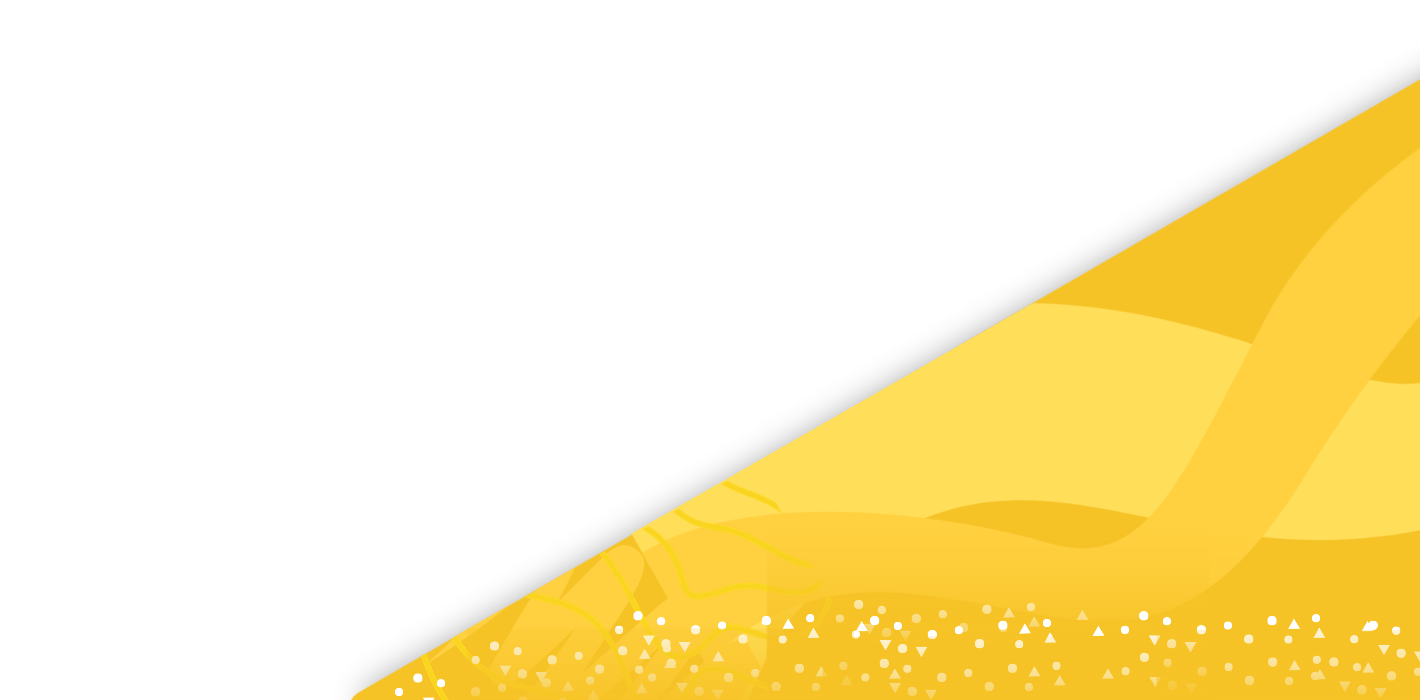
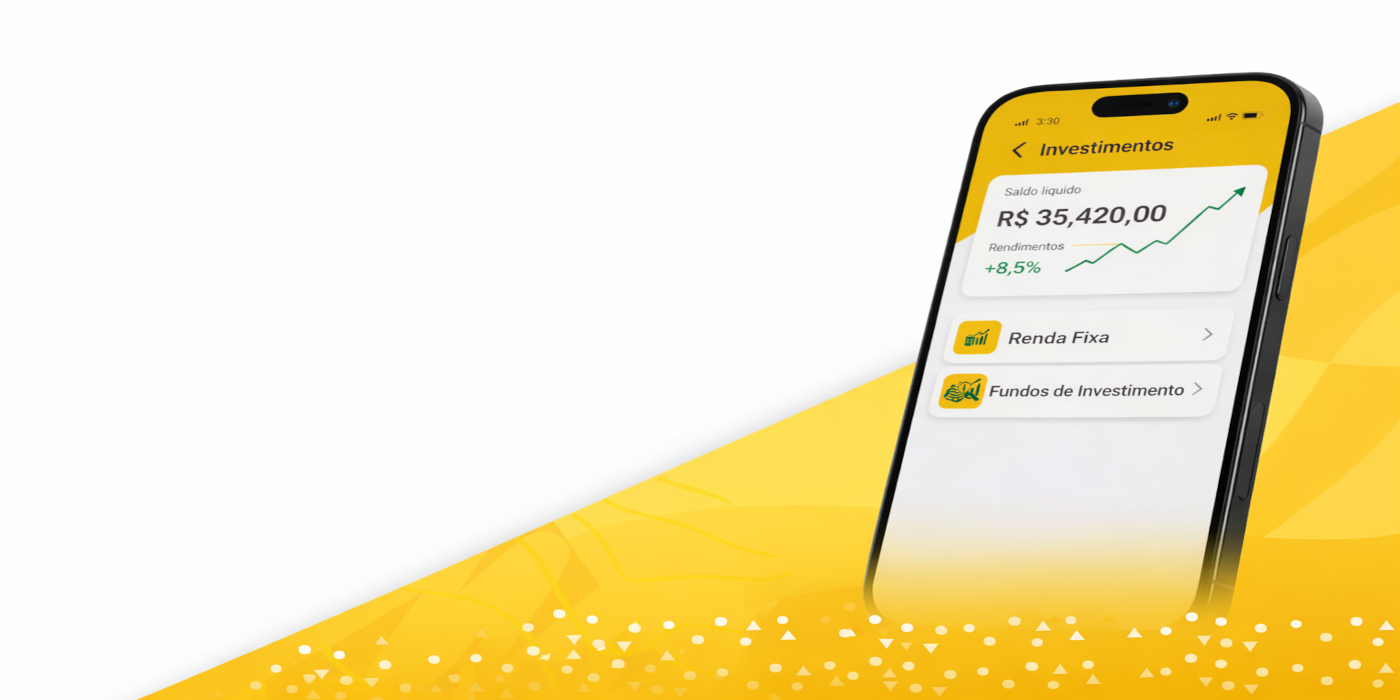
vantagens-seção-2

Changed region(s): [[0.0921, 0.09, 1.0, 1.0]]

diff --git a/Bank_Coin/Coin_Style/Style.css b/Bank_Coin/Coin_Style/Style.css
@@ -130,7 +130,7 @@ header>nav>a {
 
 .vantagens {
     display: flex;
-    flex-direction: row;
+    flex-direction: colum;
     flex-wrap: nowrap;
     align-items: center;
     gap: 10px;
@@ -162,20 +162,25 @@ header>nav>a {
 
 #secao_2 {
     background-image: url(../img/Background-2.png);
+    font: 1em 'Montserrat', 'poppins', sans-serif;
     background-repeat: no-repeat;
     background-position: right;
     display: flex;
     flex-direction: column;
     width: 100%;
     height: 700px;
+    gap: 20px;
 }
 
-#titulo_secao-2 {
-    font: bold 2em 'Montserrat', 'poppins', sans-serif;
+.titulo_secao-2 {
+    font: bold 1.4em 'Montserrat', 'poppins', sans-serif;
     color: #143959;
+    margin-top: 20px;
+    margin-bottom: 10px;
+    margin-left: 15px;
 }
 
-#linha-2 {
+.titulo_secao-2>hr {
     height: 3px;
     background-color: #F28705;
     width: 34%;
@@ -185,24 +190,62 @@ header>nav>a {
 #phone_background-2 {
     width: 400px;
     height: 700px;
+    align-self: last baseline;
+    margin-bottom: px;
 
+}
+
+.vantagens-secao-2 {
+    display: flex;
+    flex-wrap: nowrap;
+    flex-direction: column;
+    align-items: center;
+    max-width: 300px;
+    max-height: 300px;
+}
+
+.vantagens-secao-2>img {
+    max-width: 120px;
+    max-height: 120px;
+    align-self: center;
+
+}
+
+.vantagens-secao-2>h3 {
+    color: #143959;
+    font-weight: 550;
+    font-size: 1.2em;
+
+}
+
+.vantagens-secao-2>h3>strong {
+    font-weight: bold;
+}
+
+.vantagens-secao-2>hr {
+    height: 3px;
+    width: 70%;
+    background-color: rgba(198, 194, 194, 0.261);
+    margin-top: 15px;
+    margin-bottom: 15px;
+}
+
+.vantagens-secao-2>p {
+    color: rgb(37, 37, 154);
+    font-weight: 500;
+    font-size: 1em;
+    width: 180px;
 }
 
 #agrupament-vantagens-sc2 {
     display: flex;
     flex-wrap: nowrap;
     flex-direction: row;
-}
+    justify-content: space-evenly;
+    box-shadow: 1px 2px 4px rgba(61, 61, 61, 0.42);
+    width: 60%;
+    height: 300px;
+    align-items: center;
+    margin-left: 15px;
 
-.vantagens-secao-2 {
-    display: flex;
-    flex-wrap: wrap;
-    flex-direction: column;
-    gap: 15px;
-
-}
-
-.vantagens-secao-2>img {
-    max-width: 150px;
-    max-height: 150px;
 }

diff --git a/Bank_Coin/Index.html/index.html b/Bank_Coin/Index.html/index.html
@@ -63,9 +63,9 @@
             </div>
             <div id="secao_2">
 
-                <div>
-                    <h2 id="titulo_secao-2">Tudo que você precisa em um só app</h2>
-                    <hr id="linha-2">
+                <div class="titulo_secao-2">
+                    <h2>Tudo que você precisa em um só app</h2>
+                    <hr>
                 </div>
 
                 <div id="agrupament-vantagens-sc2">
@@ -73,12 +73,14 @@
 
                         <img src="../img/payment-icon.png" alt="">
                         <h3><strong>Pagamento</strong> e <strong>Transferencias</strong></h3>
+                        <hr>
                         <p>Pague contas e envie dinheiro.</p>
                     </div>
 
 
                     <div class="vantagens-secao-2"> <img src="../img/Pix-icon.png" alt="">
                         <h3><strong>Pix</strong> e <strong>Boletos</strong></h3>
+                        <hr>
                         <p>Rapidez e segurança para transações.</p>
                     </div>
 
@@ -86,14 +88,15 @@
                     <div class="vantagens-secao-2">
                         <img src="../img/goals-icon.png" alt="">
                         <h3>Conquiste seus <strong>Objetivos</strong></h3>
+                        <hr>
                         <p>Planeje e invista no seu futuro.</p>
                     </div>
                 </div>
-                <img src="../img/Phone_background-2.png" alt="" id="phone_background-2">
 
 
 
-                <h2> Invista no seu Futuro</h2>
+
+                <h2 class="titulo_secao-2"> Invista no seu Futuro</h2>
                 <p>Cresça se patrimônio com as melhores opções de investimento. </p>
                 <input type="button" value="Saiba mais" class="botao">
             </div>